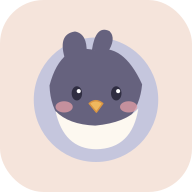
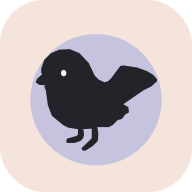
Add files via upload

Changed region(s): [[0.1562, 0.1562, 0.8438, 0.875]]

diff --git a/app.js b/app.js
@@ -2,9 +2,16 @@
   'use strict';
   const SAVE_KEY = 'birdoku-state-v1';
   const USED_KEY = 'birdoku-used-starters-v1';
-  // The first eleven colors retain the original palette, expanded to support 15 pastels.
-  const COLORS = ['#b07b58', '#f5a9c8', '#e8bd50', '#ebd78c', '#617db3', '#bdd1e3', '#ffa877', '#5eb7b6', '#d780b5', '#9774c6', '#b1d99d', '#e19d9e', '#9fc6b1', '#c8b5df', '#dfb78f', '#8fbfdb', '#d9a7c7', '#c1c68c', '#e59575', '#9b9bbd'];
-  const MIN_SIZE = 8, MAX_SIZE = 15;
+  // The first eleven colors retain the original palette, expanded for variable-sized boards.
+  // Fixed, gentle rainbow based on the original game’s silhouette progression:
+  // rose → blush → peach → gold → green → teal → blue → lilac → pink.
+  // Keep the same order across puzzles rather than shuffling the palette.
+  const COLORS = [
+    '#ec9db5', '#f4bccf', '#efb2ac', '#f5c4a4',
+    '#edda91', '#c4dda4', '#a1d4c3', '#87c9d0',
+    '#a8d5ed', '#aec3e7', '#c2b0df', '#dcadd2'
+  ];
+  const MIN_SIZE = 8, MAX_SIZE = 12;
   const randomSize = () => MIN_SIZE + Math.floor(Math.random() * (MAX_SIZE - MIN_SIZE + 1));
   const $ = (id) => document.getElementById(id);
   const board = $('board');
@@ -26,18 +33,9 @@
     if (old && typeof old === 'object') usedStarters = {...usedStarters, ...old};
   } catch (_) { /* storage may be disabled */ }
 
-  // Original simple bird icon drawn directly as SVG; no external images or fonts.
-  const birdSVG = `<svg viewBox="0 0 64 64" xmlns="http://www.w3.org/2000/svg" class="bird-drawing" aria-hidden="true">
-    <path d="M17 25Q10 10 22 8L30 19Q33 11 43 12L46 25" fill="#68667e" stroke="#4c4a65" stroke-width="2" stroke-linejoin="round"/>
-    <path d="M9 32Q9 16 32 15Q55 15 55 36Q55 55 33 56Q10 54 9 32Z" fill="#6d6a86"/>
-    <path d="M13 41Q20 49 33 46Q47 46 52 40Q48 57 32 57Q18 56 13 41Z" fill="#fff9ef"/>
-    <ellipse cx="22" cy="31" rx="3.4" ry="4.4" fill="#29293e"/>
-    <ellipse cx="42" cy="31" rx="3.4" ry="4.4" fill="#29293e"/>
-    <circle cx="23" cy="29" r="1.3" fill="#fff"/><circle cx="43" cy="29" r="1.3" fill="#fff"/>
-    <ellipse cx="15" cy="39" rx="5.8" ry="3.7" fill="#e4a7b0" opacity=".85"/>
-    <ellipse cx="49" cy="39" rx="5.8" ry="3.7" fill="#e4a7b0" opacity=".85"/>
-    <path d="M26 37Q32 33 38 37L32 43Z" fill="#f0b761" stroke="#d89847" stroke-width=".7" stroke-linejoin="round"/>
-  </svg>`;
+  // The black bird silhouette is based on the supplied bird-emoji reference.
+  const birdSVG = `<svg viewBox="-7 -7 253 214" xmlns="http://www.w3.org/2000/svg" class="bird-drawing" aria-hidden="true"><path class="bird-shape" fill="currentColor" stroke="currentColor" stroke-width="1.4" stroke-linejoin="round" d="M 46 1 L 30 8 L 17 21 L 11 38 L 11 47 L 13 49 L 3 58 L 0 65 L 7 70 L 19 71 L 17 74 L 20 81 L 24 110 L 32 131 L 54 149 L 64 154 L 83 157 L 83 167 L 81 170 L 63 175 L 60 178 L 61 184 L 76 184 L 88 180 L 93 175 L 95 168 L 94 158 L 91 157 L 110 156 L 110 175 L 90 194 L 92 199 L 98 199 L 112 190 L 122 180 L 123 166 L 121 153 L 143 153 L 151 149 L 161 139 L 169 137 L 176 128 L 183 124 L 182 114 L 172 108 L 211 81 L 227 73 L 238 63 L 238 59 L 230 50 L 218 43 L 199 36 L 172 32 L 166 33 L 149 56 L 142 63 L 135 65 L 124 60 L 116 52 L 104 27 L 86 8 L 67 0 Z"/><ellipse class="bird-eye" cx="55" cy="47" rx="5.3" ry="6.2" fill="#fff5e8"/></svg>`;
+  // The same silhouette is reused for color-region progress markers.
 
   function tell(text, duration = 3500) {
     message.textContent = text;
@@ -51,7 +49,7 @@
   }
 
   function validState(s) {
-    return s && Number.isInteger(s.size) && // Preserve progress on older 6×6 and larger boards, while new boards stay 8–15.
+    return s && Number.isInteger(s.size) && // Preserve progress on older boards, while new boards stay 8–12.
       s.size >= 6 && s.size <= 20 &&
       Array.isArray(s.regions) && s.regions.length === s.size * s.size &&
       Array.isArray(s.marks) && s.marks.length === s.size * s.size &&
@@ -59,11 +57,10 @@
       Array.isArray(s.givens) && s.givens.length === s.size * s.size;
   }
 
-  function countBirds() { return state.marks.filter(mark => mark === 'bird').length; }
-
   function render() {
     if (!state) return;
     const n = state.size;
+    const palette = n > 12 && Array.isArray(state.palette) ? state.palette : COLORS;
     board.style.setProperty('--n', String(n));
     board.dataset.size = String(n);
     board.setAttribute('aria-label', `${n} by ${n} bird puzzle`);
@@ -75,10 +72,23 @@
       if (hintIndex === i) classes.push('is-hinted');
       const glyph = mark === 'bird' ? birdSVG : mark === 'x' ? '<span class="cross">×</span>' : '';
       const label = `${mark === 'bird' ? 'Bird' : mark === 'x' ? 'Eliminated' : 'Empty'}, row ${r + 1}, column ${c + 1}${mark === 'bird' ? ', tap to clear' : mark === 'x' ? ', tap to try a bird' : ', tap to mark X'}`;
-      html += `<button class="${classes.join(' ')}" data-i="${i}" type="button" style="--cell-color:${state.palette?.[state.regions[i]] || COLORS[state.regions[i]]}" aria-label="${label}">${glyph}</button>`;
+      html += `<button class="${classes.join(' ')}" data-i="${i}" type="button" style="--cell-color:${palette[state.regions[i]] || COLORS[state.regions[i] % COLORS.length]}" aria-label="${label}">${glyph}</button>`;
     }
     board.innerHTML = html;
-    $('progress').textContent = `${countBirds()} / ${n} birds`;
+    const progress = $('progress');
+    const placedColors = new Set();
+    for (let i = 0; i < state.marks.length; i++) {
+      if (state.marks[i] === 'bird') placedColors.add(state.regions[i]);
+    }
+    progress.style.setProperty('--progress-count', String(n));
+    progress.setAttribute('aria-label', `${placedColors.size} of ${n} bird colors completed`);
+    // Order the same colors as the board into a warm-to-cool rainbow strip.
+    const rainbowOrder = Array.from({length: n}, (_, i) => i);
+    progress.innerHTML = rainbowOrder.map(region => {
+      const found = placedColors.has(region);
+      const color = palette[region] || COLORS[region % COLORS.length];
+      return `<span class="rainbow-bird${found ? ' is-found' : ''}" style="--bird-color:${color}" title="${found ? 'Bird placed' : 'Bird to find'}">${birdSVG}</span>`;
+    }).join('');
     $('undo').disabled = !state.history || state.history.length === 0;
   }
 
@@ -195,17 +205,13 @@
     const givens = Array(size * size).fill('');
     const number = (state?.number || 0) + 1;
     const palette = [...COLORS];
-    for (let i = palette.length - 1; i > 0; i--) {
-      const j = Math.floor(Math.random() * (i + 1));
-      [palette[i], palette[j]] = [palette[j], palette[i]];
-    }
     state = {size, regions: p.regions, solution: p.solution, palette: palette.slice(0, size),
       givens, marks, number, completed: false, history: []};
     hintIndex = -1;
     dialog.classList.add('hidden');
     save();
     render();
-    tell(`Puzzle ${number} · ${size} × ${size} · Find ${size} birds!`);
+    tell(`Find ${size} birds!`);
   }
 
   function starterFor(size) {

diff --git a/style.css b/style.css
@@ -24,7 +24,7 @@ button:focus-visible, select:focus-visible { outline: 3px solid var(--orange); o
 h1 { font-size: clamp(27px, 7vw, 35px); line-height: 1.02; margin: 0; font-weight: 800; letter-spacing: -1.3px; }
 .brand-star { color: var(--orange); font-size: 19px; margin-left: 3px; vertical-align: top; }
 .subtitle { margin: 5px 0 0; font-size: 12px; font-weight: 600; color: #b58f84; letter-spacing: .2px; }
-.progress-pill { flex-shrink: 0; background: #fffaf5; border: 1px solid #f2e7de; border-radius: 999px; padding: 10px 12px; font-size: 12px; font-weight: 800; box-shadow: 0 3px 10px #ad81791c; }
+
 .panel { background: var(--paper); border: 1px solid #f1e5df; border-radius: 20px; box-shadow: var(--shadow); }
 .settings-panel { display: flex; padding: 11px 14px; align-items: center; justify-content: space-between; gap: 8px; }
 .random-label { color: #aa867c; font-size: 12px; font-weight: 700; display: flex; flex-direction: column; gap: 2px; }
@@ -36,6 +36,12 @@ h1 { font-size: clamp(27px, 7vw, 35px); line-height: 1.02; margin: 0; font-weigh
 .rules strong { color: var(--brown); }
 .swipe-note { margin-top: 4px; color: #a78276; }
 .rule-dot { padding: 0 4px; color: #d2ada0; }
+/* One pastel silhouette for each color; black means a bird was placed. */
+.rainbow-progress { --progress-count: 10; width: min(100%, 390px); margin: 0 auto 11px; padding: 5px 9px; min-height: 37px; display: grid; grid-template-columns: repeat(var(--progress-count), minmax(0,1fr)); align-items: center; gap: 1px; background: #fffdfb; border-radius: 999px; box-shadow: 0 3px 12px rgba(126, 84, 72, .05); }
+.rainbow-bird { display: grid; place-items: center; min-width: 0; height: 31px; color: var(--bird-color); transition: color .18s, transform .18s; }
+.rainbow-bird.is-found { color: #25232b; transform: translateY(-1px); }
+.rainbow-bird .bird-drawing { width: 100%; max-height: 31px; height: 100%; }
+.rainbow-bird .bird-eye { display: none; }
 .play-area { background: #fff; padding: 5px; border-radius: 20px; box-shadow: 0 10px 22px rgba(122, 77, 75, .06); }
 .board { width: 100%; aspect-ratio: 1; display: grid; gap: 3px; grid-template-columns: repeat(var(--n), minmax(0, 1fr)); grid-template-rows: repeat(var(--n), minmax(0, 1fr)); touch-action: none; user-select: none; -webkit-user-select: none; }
 .cell { container-type: inline-size; min-width: 0; min-height: 0; border: 0; padding: 0; margin: 0; border-radius: 5px; position: relative; display: grid; place-items: center; background: var(--cell-color); overflow: hidden; transition: filter .1s, transform .1s; }
@@ -43,7 +49,7 @@ h1 { font-size: clamp(27px, 7vw, 35px); line-height: 1.02; margin: 0; font-weigh
 .cell:focus-visible { outline: 2px solid #685077; outline-offset: -3px; z-index: 2; }
 .cell.is-given { background-image: repeating-linear-gradient(45deg,transparent,transparent 10px,rgba(255,255,255,.12) 10px,rgba(255,255,255,.12) 20px); }
 .cell .cross { font-family: 'Trebuchet MS', system-ui, sans-serif; font-size: clamp(10px, 79cqi, 40px); font-weight: 900; line-height: 1; color: #fffaf3; text-shadow: 0 2px 2px rgba(114,64,57,.17); transform: translateY(-2px); }
-.cell .bird-drawing { width: 88%; height: 88%; filter: drop-shadow(0 1px 1px rgba(67,54,67,.15)); }
+.cell .bird-drawing { width: 92%; height: 92%; color: #212127; filter: drop-shadow(0 1px 1px rgba(67,54,67,.15)); }
 .cell.is-hinted { animation: hint-pulse .8s ease 2; box-shadow: inset 0 0 0 3px rgba(255,255,255,.96); }
 .cell.is-error { animation: error-wiggle .25s ease-in-out 2; box-shadow: inset 0 0 0 3px #cc6a67; }
 @keyframes hint-pulse { 50% { filter: saturate(1.6) brightness(1.08); } }
@@ -59,10 +65,18 @@ h1 { font-size: clamp(27px, 7vw, 35px); line-height: 1.02; margin: 0; font-weigh
 .overlay { position: fixed; inset: 0; background: rgba(83,58,61,.38); display: grid; place-items: center; padding: 25px; z-index: 8; }
 .hidden { display: none !important; }
 .win-card { background: #fffbf7; border-radius: 28px; width: min(100%, 340px); padding: 27px 24px; display: flex; flex-direction: column; gap: 12px; align-items: center; box-shadow: 0 20px 70px #432f3344; }
-.win-bird { font-size: 49px; }
+.win-bird { display: flex; align-items: center; justify-content: center; gap: 4px; }
+.win-bird .bird-drawing { color: #24232a; width: 74px; height: 64px; }
+.win-bird span { font-size: 35px; }
 .win-card h2 { font-size: 26px; margin: 0; }
 .win-card p { color: #ac837b; margin: 0 0 4px; text-align: center; }
 .win-card .new-button { width: 100%; }
 .quiet-button { border: none; background: transparent; color: #a18278; font-size: 13px; padding: 8px; font-weight: 700; }
 @media (max-width: 360px) { .app { padding-left: 9px; padding-right: 9px; } .settings-panel { gap: 5px; padding: 9px; } .new-button { padding: 0 10px; } .rules { font-size: 11px; } }
 @media (min-width: 600px) { .app { padding-top: 40px; } }
+
+/* Preview: the clear, single-action layout. */
+.rules { margin-top: 10px; margin-bottom: 18px; }
+.new-puzzle-bottom { margin: 7px 0 0; }
+.new-puzzle-bottom .new-button { width: 100%; min-height: 52px; border-radius: 15px; font-size: 15px; }
+.footer { margin-top: 18px; }

diff --git a/index.html b/index.html
@@ -20,15 +20,11 @@
           <p class="subtitle">A little puzzle break</p>
         </div>
       </div>
-      <div class="progress-pill" id="progress" aria-live="polite">0 / 10 birds</div>
     </header>
 
-    <section class="panel settings-panel" aria-label="New puzzle">
-      <span class="random-label">Random grid <strong>8 × 8 – 15 × 15</strong></span>
-      <button type="button" class="new-button" id="new-puzzle"><span aria-hidden="true">↻</span> New puzzle</button>
-    </section>
-
     <div class="rules">One <strong>bird</strong> per row, column &amp; color <span class="rule-dot">•</span> Birds can't touch, even diagonally<div class="swipe-note">Tap once for ×, twice for a bird · Swipe to mark ×</div></div>
+
+    <div class="rainbow-progress" id="progress" role="img" aria-label="Bird colors to find"></div>
 
     <section class="play-area" aria-label="Puzzle board">
       <div class="board" id="board" role="group" aria-label="Birdoku grid"></div>
@@ -41,12 +37,13 @@
       <button type="button" id="restart"><span aria-hidden="true">⟲</span> Restart</button>
       <button type="button" id="hint"><span aria-hidden="true">✧</span> Hint</button>
     </nav>
+    <div class="new-puzzle-bottom"><button type="button" class="new-button" id="new-puzzle"><span aria-hidden="true">↻</span> New puzzle</button></div>
     <p class="footer">No ads · No account · Play offline <span aria-hidden="true">♡</span></p>
   </main>
 
   <div class="overlay hidden" id="win-dialog" role="dialog" aria-modal="true" aria-labelledby="win-title">
     <div class="win-card">
-      <div class="win-bird" aria-hidden="true">🐦 ✨</div>
+      <div class="win-bird" aria-hidden="true"><svg viewBox="-7 -7 253 214" xmlns="http://www.w3.org/2000/svg" class="bird-drawing" aria-hidden="true"><path class="bird-shape" fill="currentColor" stroke="currentColor" stroke-width="1.4" stroke-linejoin="round" d="M 46 1 L 30 8 L 17 21 L 11 38 L 11 47 L 13 49 L 3 58 L 0 65 L 7 70 L 19 71 L 17 74 L 20 81 L 24 110 L 32 131 L 54 149 L 64 154 L 83 157 L 83 167 L 81 170 L 63 175 L 60 178 L 61 184 L 76 184 L 88 180 L 93 175 L 95 168 L 94 158 L 91 157 L 110 156 L 110 175 L 90 194 L 92 199 L 98 199 L 112 190 L 122 180 L 123 166 L 121 153 L 143 153 L 151 149 L 161 139 L 169 137 L 176 128 L 183 124 L 182 114 L 172 108 L 211 81 L 227 73 L 238 63 L 238 59 L 230 50 L 218 43 L 199 36 L 172 32 L 166 33 L 149 56 L 142 63 L 135 65 L 124 60 L 116 52 L 104 27 L 86 8 L 67 0 Z"/><ellipse class="bird-eye" cx="55" cy="47" rx="5.3" ry="6.2" fill="#fff5e8"/></svg><span>✨</span></div>
       <h2 id="win-title">Beautifully done!</h2>
       <p>Every bird has found its place.</p>
       <button type="button" id="play-again" class="new-button">Another puzzle <span aria-hidden="true">↗</span></button>

diff --git a/sw.js b/sw.js
@@ -1,4 +1,4 @@
-const CACHE_NAME = 'birdoku-offline-v5';
+const CACHE_NAME = 'birdoku-offline-v7';
 const ASSETS = [
   './', './index.html', './style.css', './app.js', './generator.js', './worker.js',
   './starters.js', './icon.svg', './icon-192.png', './icon-512.png', './manifest.webmanifest'
